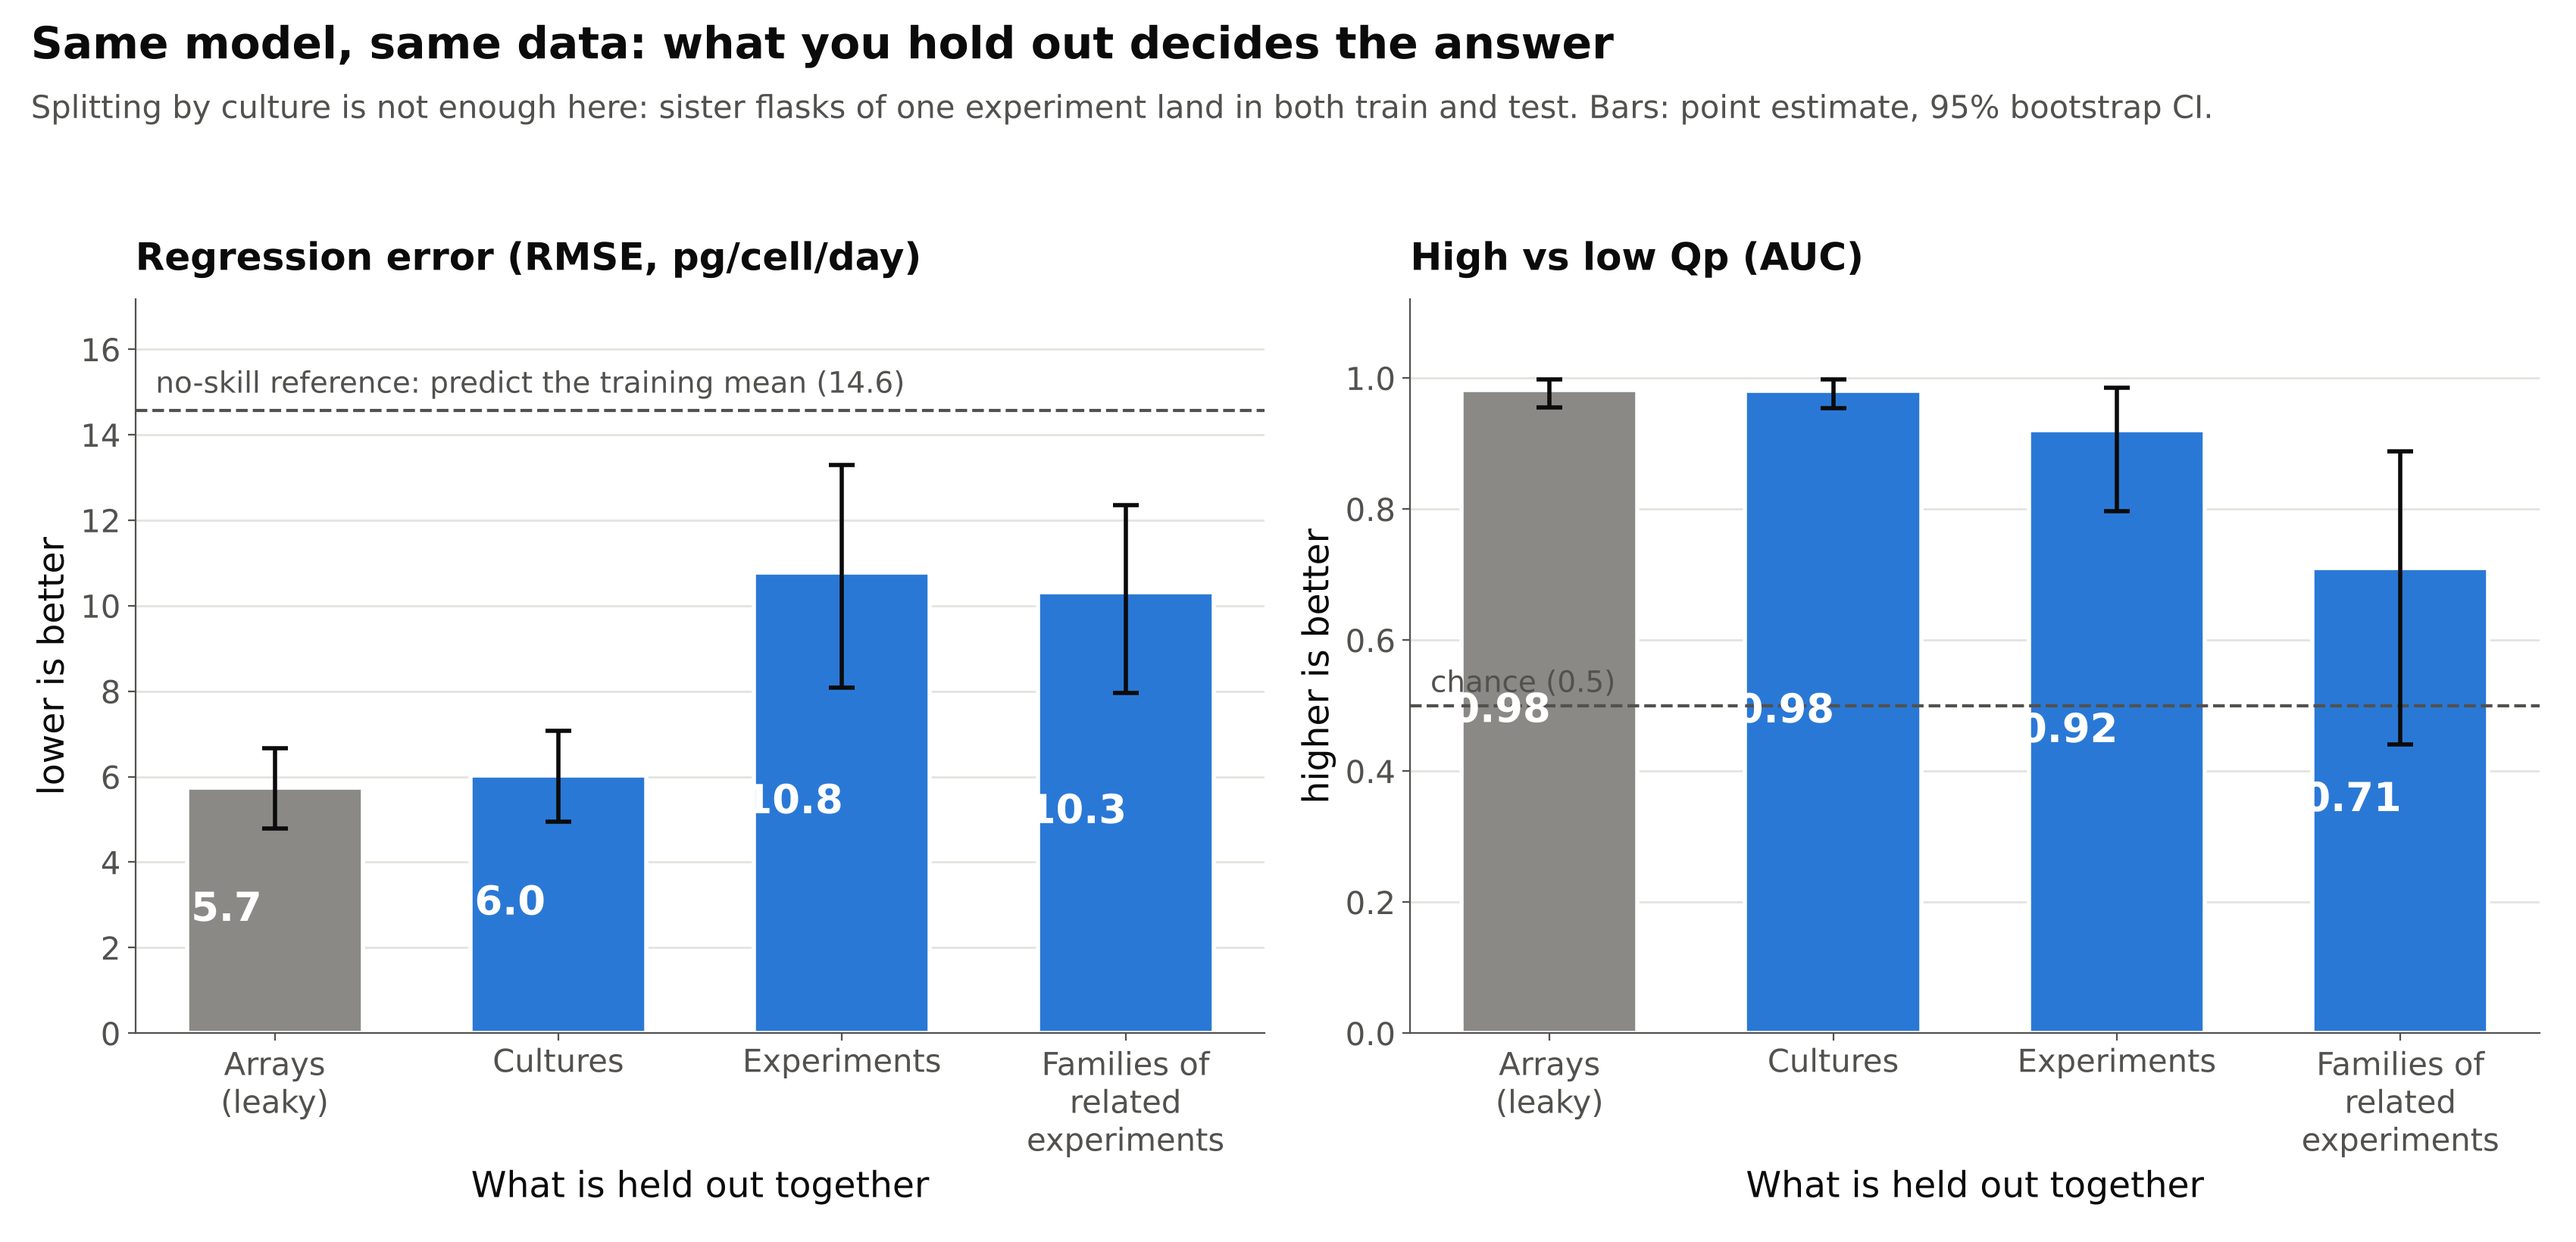
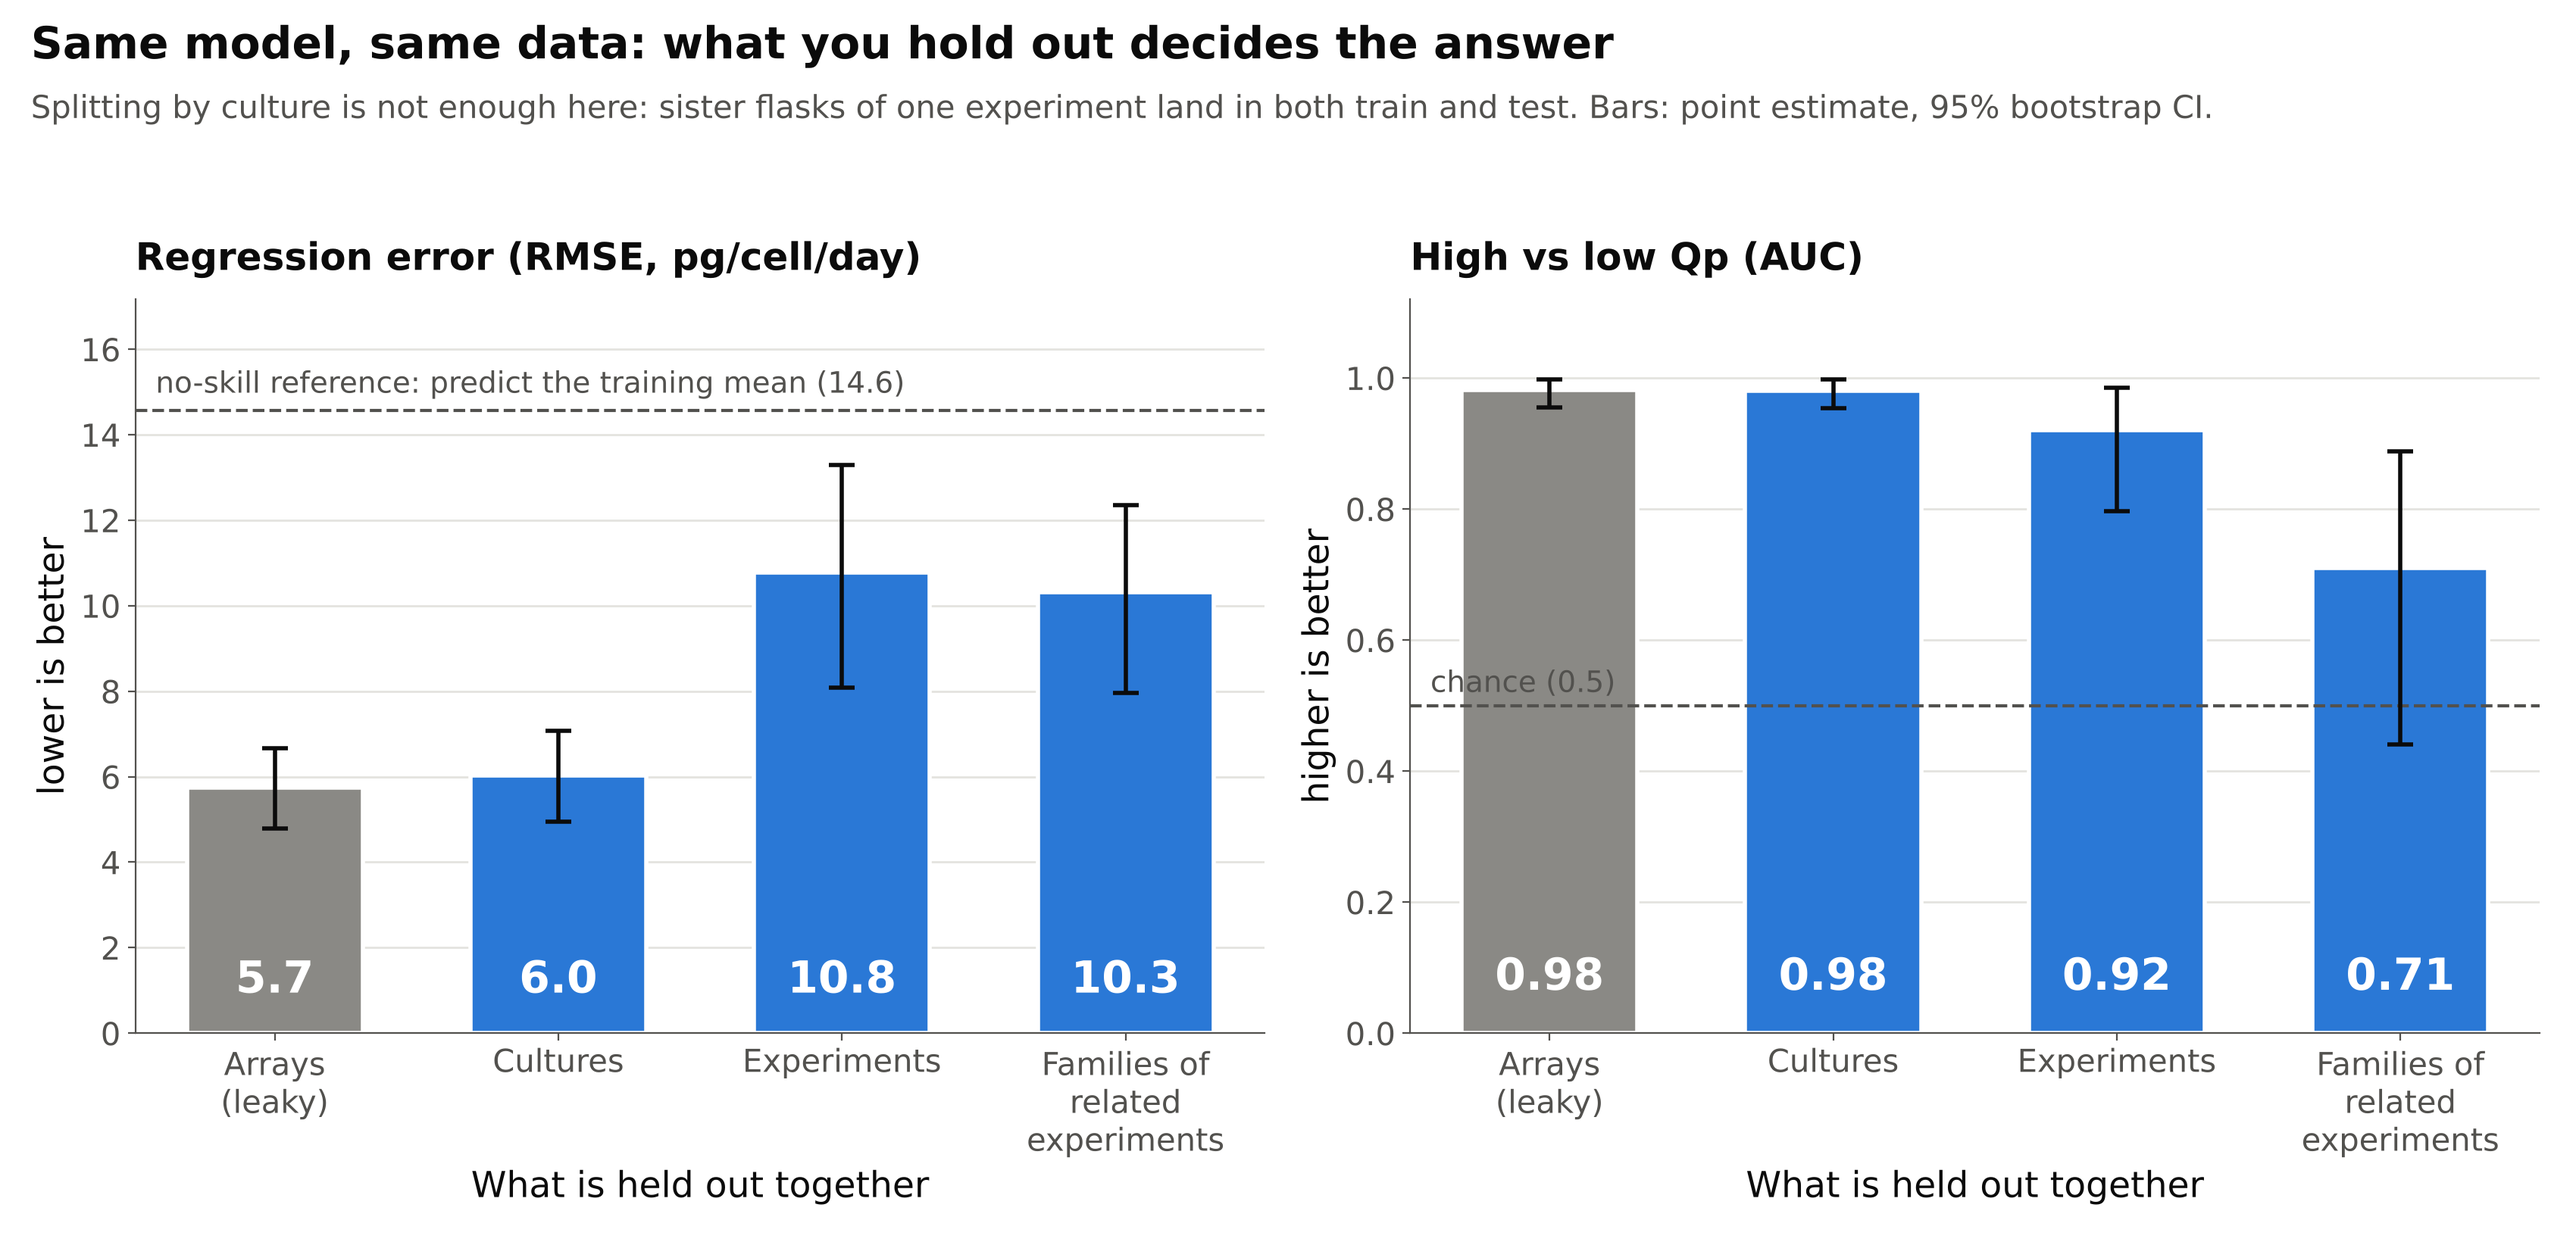
Figure polish: legend outside ROC plot, bar labels at base
Claude-Session: https://claude.ai/code/session_01LY7Te5Uv5rJv5aH5gXDEKW

diff --git a/src/figures.py b/src/figures.py
@@ -52,7 +52,7 @@ def _preds(p, key):
 def fig_roc(m, p):
     from sklearn.metrics import roc_curve
 
-    fig, ax = plt.subplots(figsize=(10.5, 8.2))
+    fig, ax = plt.subplots(figsize=(14.5, 8.2))
     series = [
         ("full_classification", "culture_grouped_5fold", "Held-out cultures", BLUE, "-"),
         ("full_classification", "leave_one_experiment_out", "Held-out experiments", ORANGE, "-"),
@@ -64,7 +64,7 @@ def fig_roc(m, p):
         a, lo, hi = _metric(m, analysis, "all_labeled_terciles", cv, "raw", "logit", "auc")
         ax.plot(fpr, tpr, color=color, lw=3, ls=ls, label=f"{label}\nAUC {a:.2f}  (95% CI {lo:.2f}–{hi:.2f})")
     ax.plot([0, 1], [0, 1], color=NEUTRAL, lw=1.5, ls="--")
-    ax.text(0.30, 0.245, "chance", color=INK2, rotation=45, fontsize=14, rotation_mode="anchor")
+    ax.text(0.66, 0.60, "chance", color=INK2, rotation=45, fontsize=15, rotation_mode="anchor")
     ax.set_xlabel("False positive rate")
     ax.set_ylabel("True positive rate")
     ax.set_xlim(-0.01, 1.01)
@@ -72,10 +72,9 @@ def fig_roc(m, p):
     ax.set_aspect("equal")
     n = len(_preds(p, "full_classification|all_labeled_terciles|culture_grouped_5fold|raw|logit"))
     ax.set_title("High vs low Qp from expression:\nAUC falls as the held-out unit gets stricter")
-    leg = ax.legend(loc="lower right", title=f"Top vs bottom Qp tercile, n = {n} arrays", title_fontsize=14,
-                    labelspacing=0.9, handlelength=1.6, frameon=True, framealpha=1.0, facecolor=SURFACE,
-                    edgecolor=GRID, borderpad=0.8)
-    leg.get_frame().set_linewidth(1.0)
+    leg = ax.legend(loc="center left", bbox_to_anchor=(1.03, 0.5), title=f"Top vs bottom Qp tercile\nn = {n} arrays",
+                    title_fontsize=15, labelspacing=1.3, handlelength=1.6, fontsize=16)
+    leg._legend_box.align = "left"
     fig.tight_layout()
     fig.savefig(FIGURES / "fig1_roc.png", dpi=200)
     plt.close(fig)
@@ -148,8 +147,8 @@ def fig_leakage(m, p):
         ax.errorbar(x, pts, yerr=err, fmt="none", ecolor=INK, elinewidth=2, capsize=6, capthick=2, zorder=3)
         for xi, v in zip(x, vals):
             # value inside the bar, clear of the CI whisker and the reference line
-            ax.text(xi - 0.17, v[0] * 0.5, fmt.format(v[0]), ha="center", va="center", fontsize=19,
-                    fontweight="bold", color=SURFACE)
+            ax.text(xi, 0.7 if metric == "rmse" else 0.05, fmt.format(v[0]), ha="center", va="bottom",
+                    fontsize=21, fontweight="bold", color=SURFACE)
         ax.set_xticks(x)
         ax.set_xticklabels([s[2] for s in schemes])
         ax.set_title(title, fontsize=18)
